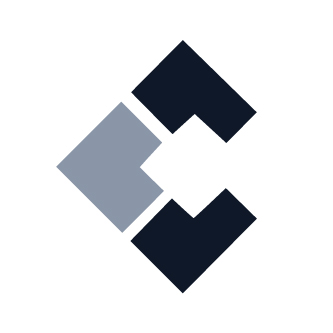
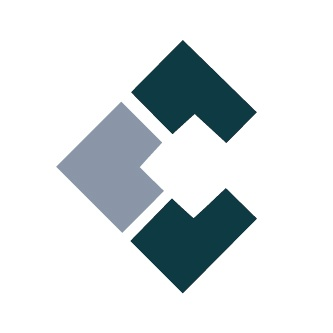
Rebrand: navy to teal, add orange/amber accent system
- globals.css: brand-secondary navy -> deep teal (#0E3A44), replacing
  it everywhere the token is used semantically (headings, footer,
  dark hero sections, logo). Header/hero backgrounds are untouched
  since they were already light.
- brand-supporting slate blue -> warm orange (#F2933A), the new
  primary accent for CTAs, eyebrows, and emphasized text sitewide.
- brand-bg soft grey -> teal-tinted off-white; surface-tint deepened
  to match.
- New tokens: --color-amber (secondary accent, stats/highlights) and
  --color-accent-ink (dark text for orange/amber fills).
- Recolored the real logo files (mark + full lockup) and favicons
  from navy to teal via exact pixel replacement.
- Button.tsx primary variant, ContactForm and ProjectForm submit
  buttons switched to the orange fill with dark ink text for
  contrast (white text on orange fails contrast).
- Hero and SeoReviewOffer: highlighted key headline phrases in orange
  as the flagship example of the "important text" emphasis pattern.
- /seo page: added GEO (AI search) content — a benefits card, a
  features bullet, and an honest FAQ entry that mirrors the existing
  "no guaranteed rankings" stance rather than overpromising AI
  citations.

Changed region(s): [[0.3904, 0.5706, 0.7808, 0.8709], [0.3904, 0.1201, 0.7808, 0.4204]]

diff --git a/unzii-website/src/app/globals.css b/unzii-website/src/app/globals.css
@@ -1,19 +1,21 @@
 @import "tailwindcss";
 
 :root {
-  /* Brand — exact values, do not alter */
+  /* Brand */
   --color-brand-primary: #8a96a8; /* Cool Grey */
-  --color-brand-secondary: #101827; /* Deep Navy */
-  --color-brand-supporting: #334a68; /* Slate Blue */
-  --color-brand-bg: #e8edf3; /* Soft Grey */
+  --color-brand-secondary: #0e3a44; /* Deep Teal */
+  --color-brand-supporting: #f2933a; /* Warm Orange */
+  --color-brand-bg: #eef4f3; /* Teal Tint */
+  --color-amber: #ffc145; /* Amber — stats and secondary highlights only */
+  --color-accent-ink: #3a2400; /* Dark text for use on orange/amber fills */
 
   /* Semantic surface scale, derived only for layout use — hues stay on-brand */
   --color-surface: #ffffff;
   --color-surface-subtle: #f6f8fa;
   --color-surface-muted: var(--color-brand-bg);
   --color-surface-inverse: var(--color-brand-secondary);
-  /* Deeper tint of Slate Blue, for section backgrounds that need more weight than Soft Grey */
-  --color-surface-tint: #d8dee7;
+  /* Deeper teal tint, for section backgrounds that need more weight than the Teal Tint */
+  --color-surface-tint: #cfe0df;
 
   --color-border: #e2e6ec;
   --color-border-strong: #c9d0db;
@@ -41,6 +43,8 @@
   --color-brand-secondary: var(--color-brand-secondary);
   --color-brand-supporting: var(--color-brand-supporting);
   --color-brand-bg: var(--color-brand-bg);
+  --color-amber: var(--color-amber);
+  --color-accent-ink: var(--color-accent-ink);
 
   --color-surface: var(--color-surface);
   --color-surface-subtle: var(--color-surface-subtle);
@@ -79,7 +83,7 @@ body {
 
 ::selection {
   background: var(--color-brand-supporting);
-  color: var(--color-text-inverse);
+  color: var(--color-accent-ink);
 }
 
 @keyframes marquee {

diff --git a/unzii-website/src/app/seo/page.tsx b/unzii-website/src/app/seo/page.tsx
@@ -5,6 +5,7 @@ import {
   FileSearch,
   Link2,
   Search,
+  Sparkles,
   TrendingUp,
 } from "lucide-react";
 import { ServiceHero } from "@/components/services/ServiceHero";
@@ -59,6 +60,12 @@ const benefits = [
     description:
       "SEO is never treated as a one time task. We monitor performance and keep refining as search evolves.",
   },
+  {
+    icon: Sparkles,
+    title: "Built for AI search too",
+    description:
+      "Beyond Google's blue links, we structure your content so tools like ChatGPT and Gemini have clear, accurate information to pull from when answering questions about businesses like yours.",
+  },
 ];
 
 const processSteps = [
@@ -105,6 +112,7 @@ const features = [
   "Search Console and Analytics setup",
   "Monthly performance reporting",
   "Ongoing monitoring and optimization",
+  "Structuring content for AI search tools like ChatGPT and Gemini",
 ];
 
 const faqs = [
@@ -137,6 +145,11 @@ const faqs = [
     question: "Can SEO be combined with a new website build?",
     answer:
       "Yes, and it's often the strongest approach. Pairing SEO with our website development service means your site is built with search performance in mind from day one.",
+  },
+  {
+    question: "Do you optimize for AI tools like ChatGPT and Gemini?",
+    answer:
+      "We build your site the way AI search tools prefer: clear structure, schema markup, and content that directly answers real questions. That improves your chances of being referenced in AI-generated answers, but like Google rankings, no one can honestly guarantee a specific AI tool will name your business.",
   },
 ];
 

diff --git a/unzii-website/src/components/start-project/ProjectForm.tsx b/unzii-website/src/components/start-project/ProjectForm.tsx
@@ -312,7 +312,7 @@ export function ProjectForm() {
             type="button"
             disabled={!canContinue}
             onClick={() => setStep((current) => current + 1)}
-            className="group inline-flex items-center gap-2 rounded-full bg-brand-secondary px-6 py-3 text-sm font-medium text-text-inverse transition-all duration-300 hover:bg-accent active:scale-[0.98] disabled:opacity-40 disabled:hover:bg-brand-secondary"
+            className="group inline-flex items-center gap-2 rounded-full bg-brand-supporting px-6 py-3 text-sm font-medium text-accent-ink transition-all duration-300 hover:opacity-90 active:scale-[0.98] disabled:opacity-40 disabled:hover:opacity-40"
           >
             Continue
             <ArrowRight
@@ -325,7 +325,7 @@ export function ProjectForm() {
             type="button"
             disabled={!canContinue || status === "loading"}
             onClick={handleSubmit}
-            className="group inline-flex items-center gap-2 rounded-full bg-brand-secondary px-6 py-3 text-sm font-medium text-text-inverse transition-all duration-300 hover:bg-accent active:scale-[0.98] disabled:opacity-40 disabled:hover:bg-brand-secondary"
+            className="group inline-flex items-center gap-2 rounded-full bg-brand-supporting px-6 py-3 text-sm font-medium text-accent-ink transition-all duration-300 hover:opacity-90 active:scale-[0.98] disabled:opacity-40 disabled:hover:opacity-40"
           >
             {status === "loading" ? "Sending…" : "Send My Project Details"}
             <ArrowRight

diff --git a/unzii-website/src/components/contact/ContactForm.tsx b/unzii-website/src/components/contact/ContactForm.tsx
@@ -120,7 +120,7 @@ export function ContactForm() {
       <button
         type="submit"
         disabled={status === "loading"}
-        className="group mt-2 inline-flex items-center justify-center gap-2 rounded-full bg-brand-secondary px-6 py-3.5 text-sm font-medium text-text-inverse transition-all duration-300 hover:bg-accent active:scale-[0.98] disabled:opacity-60"
+        className="group mt-2 inline-flex items-center justify-center gap-2 rounded-full bg-brand-supporting px-6 py-3.5 text-sm font-medium text-accent-ink transition-all duration-300 hover:opacity-90 active:scale-[0.98] disabled:opacity-60"
       >
         {status === "loading" ? "Sending…" : "Send Message"}
         <ArrowRight

diff --git a/unzii-website/src/components/home/SeoReviewOffer.tsx b/unzii-website/src/components/home/SeoReviewOffer.tsx
@@ -26,7 +26,7 @@ export function SeoReviewOffer() {
         <div className="mx-auto grid max-w-5xl grid-cols-1 gap-10 lg:grid-cols-[1.1fr_1fr] lg:items-center">
           <div>
             <h2 className="text-2xl font-semibold tracking-tight text-brand-secondary sm:text-3xl">
-              Free SEO Opportunity Review
+              <span className="text-brand-supporting">Free</span> SEO Opportunity Review
             </h2>
             <p className="mt-3 text-base font-medium text-brand-supporting">
               Not sure why your startup isn&apos;t appearing in search?

diff --git a/unzii-website/src/components/home/Hero.tsx b/unzii-website/src/components/home/Hero.tsx
@@ -19,7 +19,7 @@ export function Hero() {
           <Eyebrow>SEO Agency for Startups</Eyebrow>
 
           <h1 className="mt-6 max-w-xl text-4xl font-semibold tracking-tight text-brand-secondary sm:text-5xl lg:text-6xl">
-            Websites &amp; SEO Built for Growing Startups
+            Websites &amp; SEO Built for <span className="text-brand-supporting">Growing Startups</span>
           </h1>
 
           <p className="mt-5 max-w-xl text-balance text-base font-medium text-brand-supporting">

diff --git a/unzii-website/src/components/ui/Button.tsx b/unzii-website/src/components/ui/Button.tsx
@@ -7,7 +7,7 @@ type ButtonSize = "md" | "lg";
 
 const variantStyles: Record<ButtonVariant, string> = {
   primary:
-    "bg-brand-secondary text-text-inverse hover:bg-accent focus-visible:outline-brand-secondary",
+    "bg-brand-supporting text-accent-ink hover:opacity-90 focus-visible:outline-brand-supporting",
   secondary:
     "bg-transparent text-brand-secondary border border-border-strong hover:border-brand-secondary hover:bg-surface-subtle focus-visible:outline-brand-secondary",
   ghost:
